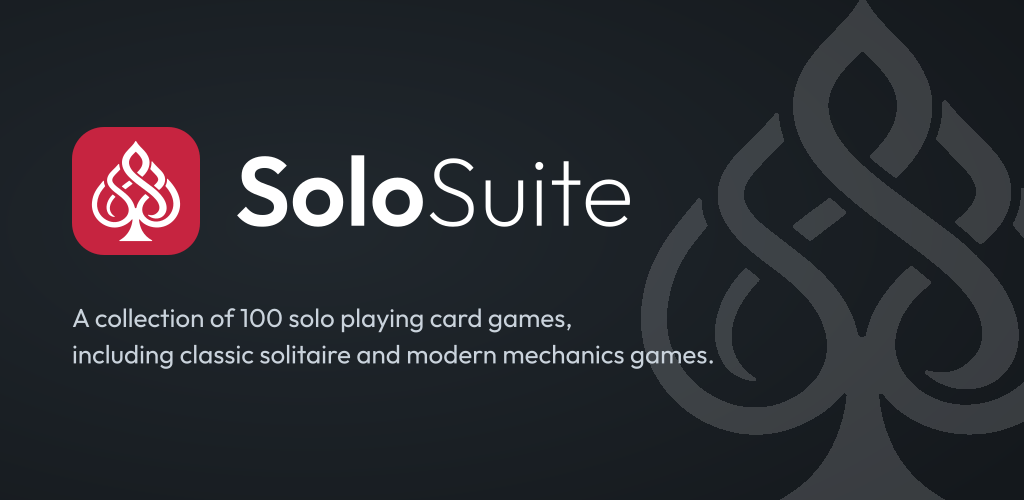
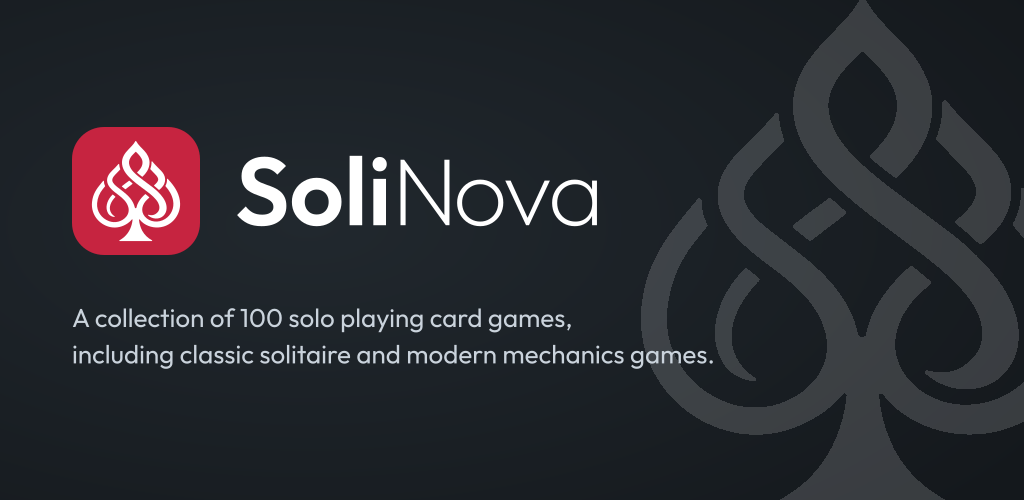
Rename to SoliNova

Changed region(s): [[0.2812, 0.3, 0.625, 0.45], [0.25, 0.42, 0.2812, 0.45]]

diff --git a/src/app/+html.tsx b/src/app/+html.tsx
@@ -6,7 +6,7 @@ export default function Root({ children }: { children: ReactNode }) {
   return (
     <html lang="en">
       <head>
-        <title>SoloSuite</title>
+        <title>SoliNova</title>
         <meta charSet="utf-8" />
         <meta httpEquiv="X-UA-Compatible" content="IE=edge" />
         <meta
@@ -17,8 +17,8 @@ export default function Root({ children }: { children: ReactNode }) {
           name="description"
           content="A collection of solo playing card games."
         />
-        <meta name="application-name" content="SoloSuite" />
-        <meta name="apple-mobile-web-app-title" content="SoloSuite" />
+        <meta name="application-name" content="SoliNova" />
+        <meta name="apple-mobile-web-app-title" content="SoliNova" />
         <meta name="mobile-web-app-capable" content="yes" />
         <meta name="apple-mobile-web-app-capable" content="yes" />
         <meta

diff --git a/app.config.js b/app.config.js
@@ -1,9 +1,9 @@
 /** @type {import('expo/config').ExpoConfig} */
 const config = {
-  name: "SoloSuite",
+  name: "SoliNova",
   description: "A collection of solo playing card games.",
   owner: "updowngames",
-  slug: "solosuite",
+  slug: "solinova",
   version: "1.0.0",
   orientation: "default",
   icon: "./assets/app-icon/icon.png",
@@ -48,8 +48,8 @@ const config = {
     // theme-color updates (crbug.com/554055703). Keep the splash itself red
     // via backgroundColor, but use the Home color as the status-bar fallback.
     themeColor: "#343f49",
-    name: "SoloSuite",
-    shortName: "SoloSuite",
+    name: "SoliNova",
+    shortName: "SoliNova",
     description: "A collection of solo playing card games.",
     display: "standalone",
     startUrl: "./",

diff --git a/src/components/Modals/ModalFull.tsx b/src/components/Modals/ModalFull.tsx
@@ -11,7 +11,7 @@ import { Button } from "../Button/Button";
 import { useResponsiveMetrics } from "@/hooks/useResponsiveMetrics";
 import { IconName } from "@/icons/generated";
 import { Icon } from "@/icons";
-import SoloSuiteLogo from "@/assets/images/SoloSuiteLogo.svg";
+import SoliNovaLogo from "@/assets/images/SoliNovaLogo.svg";
 
 type Props = {
   children: React.ReactNode;
@@ -66,7 +66,7 @@ export default function ModalFull({
           >
             {/* Logo */}
             {showLogo && (
-              <SoloSuiteLogo
+              <SoliNovaLogo
                 width={120}
                 height={28}
                 style={{

diff --git a/public/offline.html b/public/offline.html
@@ -3,7 +3,7 @@
   <head>
     <meta charset="utf-8" />
     <meta name="viewport" content="width=device-width, initial-scale=1" />
-    <title>SoloSuite | Offline</title>
+    <title>SoliNova | Offline</title>
     <style>
       :root {
         color-scheme: dark;
@@ -62,7 +62,7 @@
     <main>
       <h1>You are offline</h1>
       <p>
-        SoloSuite could not load this page without a connection. Once you are
+        SoliNova could not load this page without a connection. Once you are
         online, open the game again to cache it for offline play.
       </p>
       <p class="actions"><a href="./">Go to home</a></p>

diff --git a/src/components/Home/HomeHeader.tsx b/src/components/Home/HomeHeader.tsx
@@ -1,4 +1,4 @@
-import SoloSuiteLogo from "@/assets/images/SoloSuiteLogo.svg";
+import SoliNovaLogo from "@/assets/images/SoliNovaLogo.svg";
 import { Button } from "@/components/Button/Button";
 import { useResponsiveMetrics } from "@/hooks/useResponsiveMetrics";
 import { flexStyles } from "@/styles/flexStyles";
@@ -86,7 +86,7 @@ export function HomeHeader({
             },
           ]}
         >
-          <SoloSuiteLogo
+          <SoliNovaLogo
             width={140}
             height={32}
             style={{

diff --git a/src/components/common/GameWrapper.tsx b/src/components/common/GameWrapper.tsx
@@ -54,7 +54,7 @@ import { GameHeader } from "./GameHeader";
 import { useStableCallback } from "@/hooks/useStableCallback";
 
 const TIPS_MORPH_DURATION = 350;
-const KEEP_AWAKE_TAG = "solosuite-game";
+const KEEP_AWAKE_TAG = "solinova-game";
 const KEEP_AWAKE_MS = 10 * 60 * 1000;
 // Scene effects start after the game has loaded and its deal has played.
 const SCENE_START_DELAY_MS = 1000;

diff --git a/src/app/_layout.tsx b/src/app/_layout.tsx
@@ -100,7 +100,7 @@ export default function Layout() {
   useEffect(() => {
     if (typeof document === "undefined") return;
 
-    const rootTitle = "SoloSuite";
+    const rootTitle = "SoliNova";
     const pageTitle = isGamePath(pathname)
       ? `${localizeGameTitle(getGameInfo(pathname), pathname, displayLanguage)} ♠ ${rootTitle}`
       : rootTitle;

diff --git a/eslint.config.js b/eslint.config.js
@@ -45,7 +45,7 @@ module.exports = defineConfig([
               "[0-9!-/:-@[-`{-~]+",
               "[A-Z_-]+",
               "[\\u2022\\u25E6]",
-              "SoloSuite",
+              "SoliNova",
             ],
           },
           // Translation lookups (t, tCommon, i18n.t) and helpers that take

diff --git a/public/sw.js b/public/sw.js
@@ -1,6 +1,6 @@
 // Bump only when APP_SHELL contents/filenames change. Hashed bundle/asset
 // URLs already self-bust cache and do not require a cache name bump.
-const CACHE_NAME = "solo-suite-v2";
+const CACHE_NAME = "solinova-v3";
 const APP_SHELL = [
   "./",
   "./index.html",

diff --git a/README.md b/README.md
@@ -1,12 +1,12 @@
-# SoloSuite
+# SoliNova
 
-SoloSuite is a collection of single-player card games built for quick sessions, thoughtful strategy, and discovering new ways to play with a standard deck. It includes a growing library of solitaire games, persistent statistics and favorites, configurable card styles, and a progression-based Nodes mode.
+SoliNova is a collection of single-player card games built for quick sessions, thoughtful strategy, and discovering new ways to play with a standard deck. It includes a growing library of solitaire games, persistent statistics and favorites, configurable card styles, and a progression-based Nodes mode.
 
 The app is built with Expo and React Native for web and mobile. The web version supports offline play when installed as a progressive web app.
 
 ## Play
 
-[Play SoloSuite at solosuite.app](https://solosuite.app)
+[Play SoliNova at solinova.site](https://solinova.site)
 
 ## Features
 
@@ -19,4 +19,4 @@ The app is built with Expo and React Native for web and mobile. The web version 
 
 ## Technology
 
-SoloSuite uses Expo Router, React Native, TypeScript, Reanimated, and AsyncStorage. The same application code targets the web and native mobile platforms.
+SoliNova uses Expo Router, React Native, TypeScript, Reanimated, and AsyncStorage. The same application code targets the web and native mobile platforms.

diff --git a/docs/localization-plan.md b/docs/localization-plan.md
@@ -1,6 +1,6 @@
 # Localization
 
-SoloSuite is translated into French, Spanish, Italian, Portuguese, Turkish and Indonesian. English is the source language, more languages can follow, and translations are made by AI with automatic checks.
+SoliNova is translated into French, Spanish, Italian, Portuguese, Turkish and Indonesian. English is the source language, more languages can follow, and translations are made by AI with automatic checks.
 
 Status: French, Spanish, Italian, Portuguese, Turkish and Indonesian are complete. The UI, the in-game text, every game's title, description, quick start and rules, the game settings, all 156 quotes and all 81 Tao Te Ching chapters are translated, and the checks pass. Turkish was checked on a phone on 2026-09-16 (all 114 games opened, overflowing labels shortened, remaining hard-coded English strings translated). Italian, Portuguese and Indonesian have not yet been checked on a phone.
 

diff --git a/docs/crash-reporting-plan.md b/docs/crash-reporting-plan.md
@@ -4,7 +4,7 @@ Status: plan only, to be implemented in a future session after the localization 
 
 ## Why
 
-Release builds report nothing. SoloSuite already notices when a game launch never settled: `consumeInterruptedGameLaunch` in `src/data/game-menu.ts` catches it, so the next launch doesn't resume into a crash loop. But nobody learns which game crashed or why. Crash reporting sends that information to a dashboard.
+Release builds report nothing. SoliNova already notices when a game launch never settled: `consumeInterruptedGameLaunch` in `src/data/game-menu.ts` catches it, so the next launch doesn't resume into a crash loop. But nobody learns which game crashed or why. Crash reporting sends that information to a dashboard.
 
 ## Recommendation: Sentry
 
